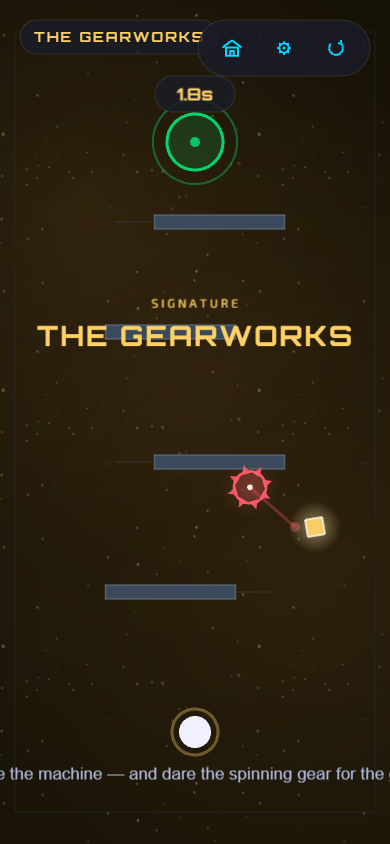
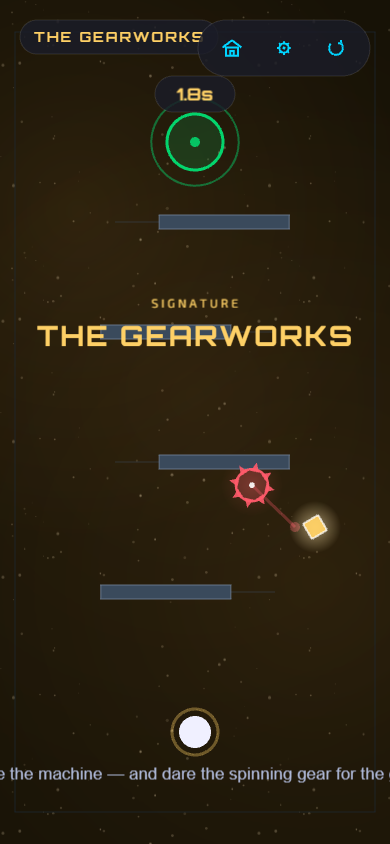
feat(p3-m5): W6-7 excitement pass -- the biggest lift (Rifts + Gates)
Rifts and Gates were the emptiest, zero-threat worlds. Hybrid treatment -- real
fail-hazards on bold routes + alive motion + risky gems, 1-star routes kept clean;
the clever aha puzzles (velocity-carry, think-backwards, only-door, plan-gem) keep
their clarity:
W6 Rifts:
- level43: a saw sweeps the rift landing -- time the exit to home.
- level47: a spike under the dead-end ledge -- the WRONG rift now bites (real
  stakes for the choice); gem moved beside it (greedy/risky).
- level81 HALL OF MIRRORS (sig): a spinning arm patrols the middle chamber -- the
  signature's memorable moment of motion.
W7 Gates:
- level83: a saw sweeps the high lane -- time the line-up over the pit.
- level54: a saw patrols between the two gate commits.
- level84: a spike in the gem detour -- the expensive gem is now also dangerous.
- level85 THE LOCKWORKS (sig): a pulsing laser across the band crossing -- the
  gateworks now ticks; cross on the dark beat.

Verify: tsc clean, 67 tests, build clean. verify_p3.py: all 56 load + completable,
rotating arm orbits, beam toggles, no console errors. Screenshots confirm the two
new signature motion moments render premium.

diff --git a/src/config/levels/level85.ts b/src/config/levels/level85.ts
@@ -18,8 +18,13 @@ export const level85: LevelConfig = {
     { x: 270, y: 370, width: 170, height: 14, dir: { x: 0, y: -1 } }, // band 2 up-gate (right, x 185..355)
     { x: 180, y: 200, width: 170, height: 14, dir: { x: 0, y: -1 } }, // band 3 up-gate (centre, x 95..265)
   ],
-  collectible: { x: 310, y: 460 }, // tucked right, between bands 1 and 2
+  hazards: [
+    // A pulsing laser across the left-to-right crossing between bands 1 and 2 —
+    // the gateworks now ticks. Cross on the dark beat. (Signature motion moment.)
+    { x: 180, y: 455, width: 120, height: 12, pulseMs: 1700 },
+  ],
+  collectible: { x: 310, y: 460 }, // tucked right, between bands 1 and 2 (past the beam)
   title:     'THE LOCKWORKS',
-  hint:      'Thread the gateworks — each door, one way',
+  hint:      'Thread the gateworks — each door one way, and time the beam',
   parTimeMs: 19000,
 };

diff --git a/src/config/levels/level84.ts b/src/config/levels/level84.ts
@@ -12,7 +12,10 @@ export const level84: LevelConfig = {
     { x: 235, y: 560, width: 16, height: 200, dir: { x: 1, y: 0 } },  // right-gate to the gem (no return)
     { x: 290, y: 430, width: 140, height: 16, dir: { x: 0, y: -1 } }, // up-gate back out of the right side
   ],
-  collectible: { x: 315, y: 560 }, // behind the right-gate — the expensive star
-  hint:      'The gem costs a one-way detour — plan it before you climb',
+  hazards: [
+    { x: 315, y: 495, radius: 18 }, // a spike in the detour — the expensive gem is now also dangerous
+  ],
+  collectible: { x: 315, y: 560 }, // behind the right-gate, past the spike — the expensive star
+  hint:      'The gem costs a one-way detour past a spike — plan it before you climb',
   parTimeMs: 17000,
 };

diff --git a/src/config/levels/level81.ts b/src/config/levels/level81.ts
@@ -16,8 +16,13 @@ export const level81: LevelConfig = {
     { a: { x: 90,  y: 400 }, b: { x: 300, y: 300 } }, // c2 (left) -> c3 (right)
     { a: { x: 90,  y: 250 }, b: { x: 180, y: 130 } }, // c3 (left) -> top, by the goal
   ],
+  hazards: [
+    // A spinning arm patrols the middle chamber — the signature gets a memorable
+    // moment of motion. Hop along the chamber edges, around the sweep.
+    { x: 180, y: 495, radius: 16, pivot: { x: 180, y: 440 }, durationMs: 2800 },
+  ],
   collectible: { x: 300, y: 250 }, // tucked in c3, off the direct hop
   title:     'HALL OF MIRRORS',
-  hint:      'Hop the rifts, chamber by chamber',
+  hint:      'Hop the rifts, chamber by chamber — mind the spinning arm',
   parTimeMs: 20000,
 };

diff --git a/src/config/levels/level47.ts b/src/config/levels/level47.ts
@@ -13,7 +13,10 @@ export const level47: LevelConfig = {
     { a: { x: 90, y: 540 }, b: { x: 90, y: 300 } },   // left rift -> under the ledge (dead end)
     { a: { x: 280, y: 540 }, b: { x: 290, y: 300 } }, // right rift -> open to the goal
   ],
-  collectible: { x: 90, y: 350 }, // off-route, by the dead-end exit (greedy)
-  hint:      'Two rifts — only one leads up',
+  hazards: [
+    { x: 90, y: 335, radius: 20 }, // a spike under the ledge — the WRONG rift now bites, not just stalls
+  ],
+  collectible: { x: 90, y: 360 }, // by the dead-end spike — the greedy, risky grab
+  hint:      'Two rifts — pick wrong and the left one drops you on a spike',
   parTimeMs: 17000,
 };

diff --git a/src/config/levels/level54.ts b/src/config/levels/level54.ts
@@ -12,7 +12,10 @@ export const level54: LevelConfig = {
     { x: 120, y: 500, width: 200, height: 16, dir: { x: 0, y: -1 } }, // up-gate (left)
     { x: 235, y: 320, width: 16, height: 210, dir: { x: 1, y: 0 } },  // right-gate (upper)
   ],
+  hazards: [
+    { x: 120, y: 410, radius: 20, to: { x: 230, y: 410 }, durationMs: 1200 }, // a saw patrols between the two commits
+  ],
   collectible: { x: 60, y: 300 }, // off-route left, above the first gate
-  hint:      'Two gates — commit to each in turn',
+  hint:      'Two gates — commit in turn, and time the saw between them',
   parTimeMs: 18000,
 };

diff --git a/src/config/levels/level83.ts b/src/config/levels/level83.ts
@@ -14,7 +14,10 @@ export const level83: LevelConfig = {
   gates: [
     { x: 180, y: 560, width: 140, height: 16, dir: { x: 0, y: 1 } }, // roof: down-only entry
   ],
+  hazards: [
+    { x: 60, y: 470, radius: 22, to: { x: 300, y: 470 }, durationMs: 1300 }, // a saw sweeps the high lane — time the line-up over the pit
+  ],
   collectible: { x: 70, y: 250 }, // off-route, up the left climb
-  hint:      'The only door is on top — climb up, then drop in',
+  hint:      'Climb up to drop in — and time the saw on the high lane',
   parTimeMs: 16000,
 };

diff --git a/src/config/levels/level43.ts b/src/config/levels/level43.ts
@@ -11,7 +11,10 @@ export const level43: LevelConfig = {
   portals: [
     { a: { x: 90, y: 520 }, b: { x: 280, y: 250 } }, // bottom-left -> upper-right
   ],
+  hazards: [
+    { x: 200, y: 195, radius: 22, to: { x: 340, y: 195 }, durationMs: 1200 }, // a saw sweeps the landing — time the rift exit
+  ],
   collectible: { x: 90, y: 250 }, // off-route, upper-left
-  hint:      'The far mouth carries you across',
+  hint:      'The far mouth carries you across — then time the saw to home',
   parTimeMs: 14000,
 };
